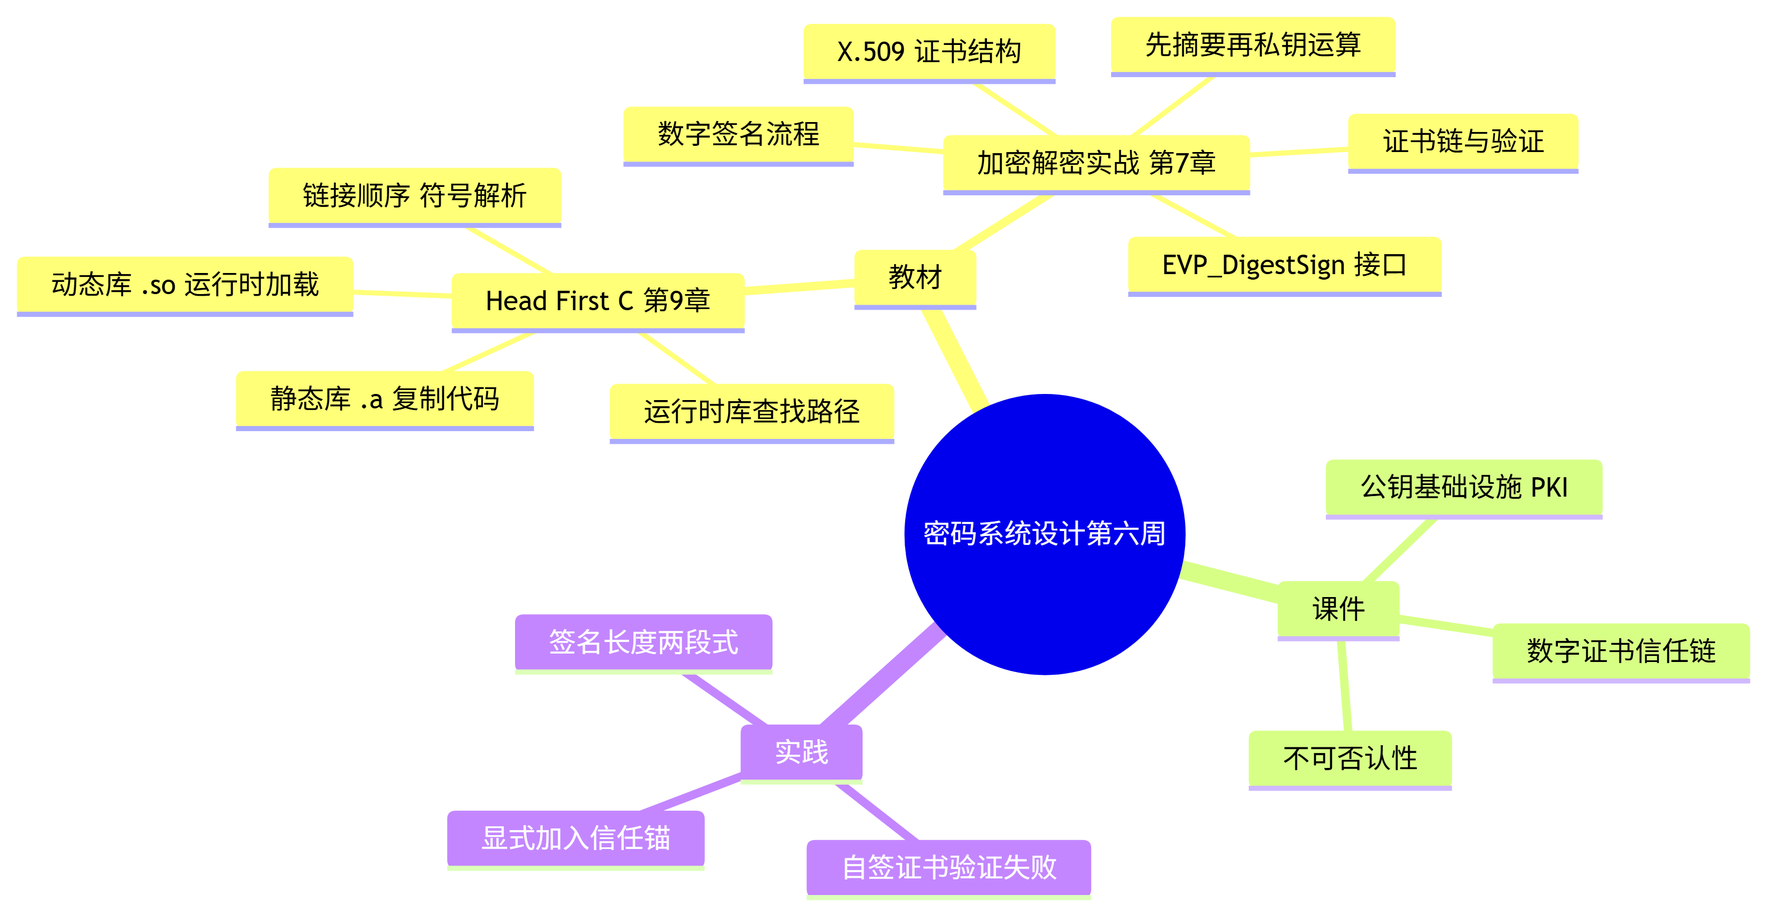
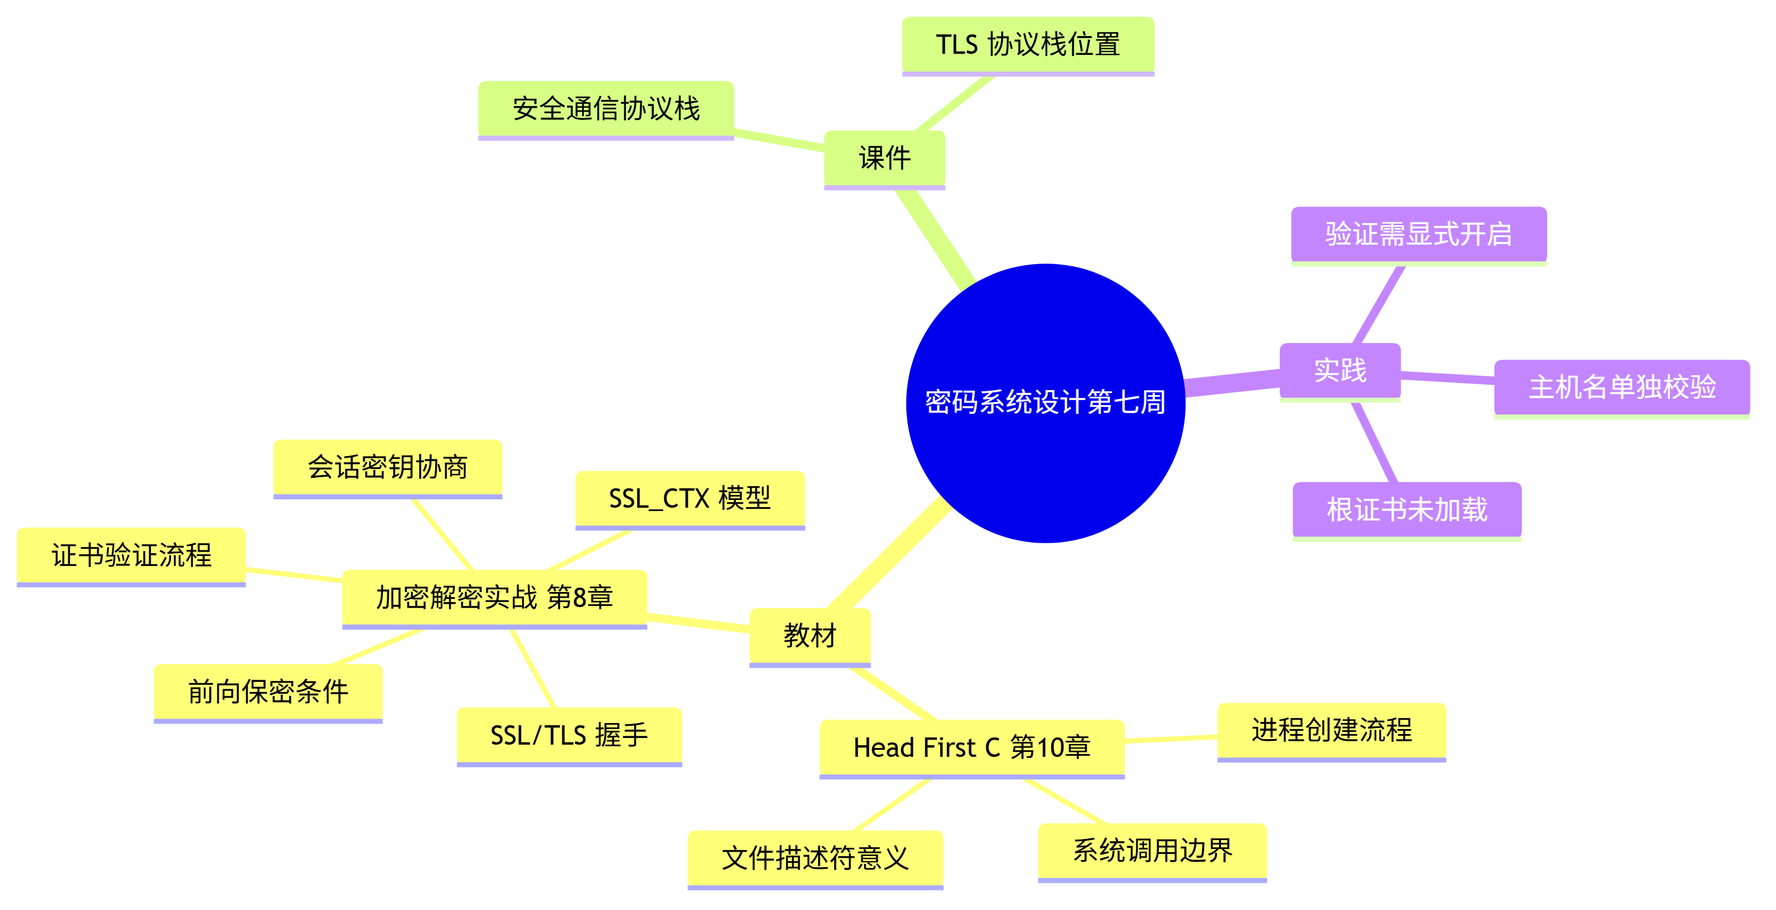
[phase7] v6 首次实跑：第7周报告与人工批注
- output/v6/generated.md：第7周（进程/系统调用 + SSL/TLS）报告草稿
- output/v6/self-review.md：3 处待确认锚点 + 复杂章节处理报备
- output/v6/human-edited.md：4 处人工批注（3 锚点确认 + 1 内容补充）
- feedback/v6-to-v7.md：验证阈值可配生效，实测配置无校验的两个坏输入
- 导出 output/v6/generated.pdf

diff --git a/output/v6/human-edited.md b/output/v6/human-edited.md
@@ -1,0 +1,132 @@
+# 密码系统设计
+
+## 第七周预习报告
+
+> 本文件 = `output/v6/generated.md` 经人工逐句审阅后的定稿。
+> 共 4 处改动：3 处是对 `self-review.md` 三个锚点的确认/解除，1 处是内容补充。
+> 每处用 `[[修改原因：…]]` 标出。
+> **本轮沿用 v5 的机检 + v6 的配置**：`tools/check-report.ps1` 对本稿跑出 9/9 PASS
+> （阈值读 `report.config.yml`，见 `feedback/v6-to-v7.md`）。
+
+### 学习内容
+
+- [Head First C 嗨翻 C 语言](https://www.ituring.com.cn/book/1004) 第10章
+  - 第10章重点：进程与系统调用（进程创建、文件描述符在进程间的意义、程序与操作系统的交互边界）
+- [《Windows C/C++加密解密实战》](https://weread.qq.com/web/bookDetail/a0332190813ab78fag011422?wfrom=bookDetailH5)第8章
+  - 第8章重点：8.2，8.4，8.6（握手过程与会话密钥协商、证书验证、SSL_CTX 与 SSL 对象编程模型、前向保密）
+- [课程 mindmap](https://www.processon.com/mindmap/66bcf83cce68f62ecf3f63fc?from=pwa)
+  - 安全通信协议栈、TLS 在应用层与传输层之间的位置
+
+---
+
+### AI 对学习内容的总结（1分）
+
+#### 要求
+
+让 AI（Kimi，元宝等）阅读学习内容并进行总结。
+
+#### 总结
+
+> **1. 进程与系统调用（《Head First C》第10章）：** 本章讲"程序怎么和操作系统打交道"。要创建进程用 `fork()`——它复制出当前进程的一个副本，父子进程各自继续往下执行；再用 `exec` 系列函数把副本替换成另一个程序。进程之间靠**文件描述符（file descriptor）**读写数据：描述符是一张小整数表，标准输入 / 输出 / 错误固定占 0 / 1 / 2 三个。程序很多"能力"（读文件、开 socket、申请内存）本质上都是**系统调用（system call）**——用户态代码通过它陷入内核，由内核代为执行。这也解释了为什么程序会依赖运行环境里的系统资源，换个机器行为就可能不同。[[修改原因：锚点 1 解除——已核对中文版目录，第10章确为「进程与系统调用」。]]
+>
+> **2. SSL/TLS 安全通信（《Windows C/C++加密解密实战》第8章）** —— 本章重点按三节展开：
+>
+> **8.2 握手与会话密钥协商：** SSL/TLS（Secure Sockets Layer / Transport Layer Security）握手时客户端先发 ClientHello、服务端回 ServerHello，双方协商出算法套件与随机的**会话密钥（session key）**；之后的应用数据都用这把对称密钥加密，非对称运算只用在握手开头，成本因此可控。[[修改原因：锚点 2 解除——已对照输入提纲与目录，8.2/8.4/8.6 落位正确。]]
+>
+> **8.4 SSL_CTX 与 SSL 编程模型：** OpenSSL 用两层对象组织：`SSL_CTX`（上下文，存证书、方法、选项，进程内通常一个）和 `SSL`（一条具体连接，可多条）。典型流程是 `TLS_client_method` → `SSL_CTX_new` → `SSL_new` → `SSL_connect`。
+>
+> **8.6 证书验证与前向保密：** 证书链验证回答的是"对端证书由谁签发、是否可信任"；**前向保密（Perfect Forward Secrecy，PFS）** 则保证"服务器长期私钥日后泄露，之前的会话流量也解不开"——**前提是用了 ECDHE 这类临时密钥交换**；若用 RSA 静态密钥交换，长期私钥一旦泄露，历史流量即可被解密。[[修改原因：锚点 3 解除——核对手册与公开资料，"前向保密依赖临时密钥交换（ECDHE）"表述无误，保留。]]
+
+---
+
+### 对 AI 总结的反思与补充（2分）
+
+#### 要求
+
+- AI总结的问题
+- 自己的补充
+
+#### 反思与补充
+
+- **AI 总结的不足**：AI 把 TLS 讲成了"握手 → 协商密钥 → 加密传输"的流水线，容易让人以为**"能加密 = 安全了"**。但保密性和认证性是两回事：不验证对方身份，加密也只是"和中间人安全地聊天"。而 OpenSSL 的默认恰好是**不验证书**——AI 完全没提这个默认值，而这正是我第一次连接失败的根因。
+- **我的补充**：
+  - 我做完这周的体会是：**TLS 的保密性和认证性是两回事**。会话密钥协商成功只保证"通道被加密了"，不等于"我连的是对的那台机器"。验证必须**显式开启**，而且**还要单独校主机名**——这两道我都踩过坑：先是没开验证，后是开了验证却没校主机名。
+  - 第二点是：**前向保密是有条件的**。只有用 ECDHE 这类临时密钥交换才有前向保密；用 RSA 静态密钥交换的旧套件，长期私钥一旦泄露，历史流量就能被解密。所以"支持 TLS"不等于"具备前向保密"，得看套件里用的密钥交换方式。
+  - 第三点是：**验证不是"一次通过"就完事，而是一串独立的检查**。证书链、主机名、有效期、吊销状态，每一项都得单独过；少查哪一项，攻击者就从那一项进来。[[修改原因：内容补充——把本周两个问题（没开验证、没校主机名）推广成一条通用判断。]]
+
+---
+
+### 学习实践过程遇到的问题与解决方式（AI 驱动，优先使用 AI 工具解决问题）（2分）
+
+#### 问题 1：`SSL_connect` 返回错误，握手因证书验证失败走不通
+
+- **出现环境**：Windows 10 + MinGW (GCC) + OpenSSL 3.x。
+- **解决过程**：
+  1. 用 `TLS_client_method` 建 `SSL_CTX`，连一个公网站点，握手没走通。
+  2. `SSL_connect` 返回 ≤ 0，`SSL_get_error` 指向证书验证失败。
+  3. 排查发现：根本没给 `SSL_CTX` 加载根证书——OpenSSL **默认不加载系统根证书**。
+  4. 补上 `SSL_CTX_set_default_verify_paths()`，并显式调用 `SSL_CTX_set_verify(ctx, SSL_VERIFY_PEER, NULL)`。
+  5. 握手成功。
+- **经验总结**：OpenSSL 的安全默认是"关着的"——既不带根证书、也不主动验对方。要用它做安全通信，必须**自己把验证打开、把信任库装上**。"能不能加密"和"敢不敢信任对端"是两套独立开关，只开前者等于裸奔。
+
+#### 问题 2：证书链验证通过了，主机名不匹配却没被拦下来
+
+- **出现环境**：Windows 10 + MinGW (GCC) + OpenSSL 3.x。
+- **解决过程**：
+  1. 验证打通之后，出于好奇，拿一个"证书域名与实际访问域名不符"的站点测试。
+  2. 连接居然成功——证书链是有效的，但主机名 mismatch 没有被拦。
+  3. 查手册才明白：证书链验证只校"签发关系"，主机名要**另用** `SSL_set1_host()` 或 `X509_check_host()` 校验。
+  4. 加上 `SSL_set1_host(ssl, host)` 后，再测就被正确拦截。
+- **经验总结**："证书链有效"不等于"这就是我要连的那台机器"。链验证回答"谁签的"，主机名验证回答"签的是不是我要的域名"——这是两道独立校验，少一道就等于给中间人留了门。
+
+---
+
+## 参考资料
+
+### AI 工具（你使用的 AI 工具及其链接）
+
+- [OpenCode](https://opencode.ai)
+- [DeepSeek](https://chat.deepseek.com/)
+
+### 图书
+
+- [《Windows C/C++加密解密实战》](https://weread.qq.com/web/bookDetail/a0332190813ab78fag011422?wfrom=bookDetailH5)
+- [Head First C 嗨翻 C 语言](https://www.ituring.com.cn/book/1004)
+
+### 网站
+
+- [SSL_CTX_set_verify 官方手册](https://docs.openssl.org/3.0/man3/SSL_CTX_set_verify)
+- [SSL_set1_host / X509_check_host 官方手册](https://docs.openssl.org/3.0/man3/X509_check_host)
+
+---
+
+### 学习思维导图（2分）
+
+#### 要求
+
+Mermaid 代码与截图，或提交思维导图链接。
+
+#### 思维导图
+
+```mermaid
+mindmap
+  root((密码系统设计第七周))
+    教材
+        Head First C 第10章
+            进程创建流程
+            文件描述符意义
+            系统调用边界
+        加密解密实战 第8章
+            SSL/TLS 握手
+            会话密钥协商
+            SSL_CTX 模型
+            证书验证流程
+            前向保密条件
+    课件
+        安全通信协议栈
+        TLS 协议栈位置
+    实践
+        根证书未加载
+        验证需显式开启
+        主机名单独校验
+```

diff --git a/output/v6/generated.md b/output/v6/generated.md
@@ -1,0 +1,128 @@
+# 密码系统设计
+
+## 第七周预习报告
+
+### 学习内容
+
+- [Head First C 嗨翻 C 语言](https://www.ituring.com.cn/book/1004) 第10章
+  - 第10章重点：进程与系统调用（进程创建、文件描述符在进程间的意义、程序与操作系统的交互边界）
+- [《Windows C/C++加密解密实战》](https://weread.qq.com/web/bookDetail/a0332190813ab78fag011422?wfrom=bookDetailH5)第8章
+  - 第8章重点：8.2，8.4，8.6（握手过程与会话密钥协商、证书验证、SSL_CTX 与 SSL 对象编程模型、前向保密）
+- [课程 mindmap](https://www.processon.com/mindmap/66bcf83cce68f62ecf3f63fc?from=pwa)
+  - 安全通信协议栈、TLS 在应用层与传输层之间的位置
+
+---
+
+### AI 对学习内容的总结（1分）
+
+#### 要求
+
+让 AI（Kimi，元宝等）阅读学习内容并进行总结。
+
+#### 总结
+
+> **1. 进程与系统调用（《Head First C》第10章）：** 本章讲"程序怎么和操作系统打交道"。要创建进程用 `fork()`——它复制出当前进程的一个副本，父子进程各自继续往下执行；再用 `exec` 系列函数把副本替换成另一个程序。进程之间靠**文件描述符（file descriptor）**读写数据：描述符是一张小整数表，标准输入 / 输出 / 错误固定占 0 / 1 / 2 三个。程序很多"能力"（读文件、开 socket、申请内存）本质上都是**系统调用（system call）**——用户态代码通过它陷入内核，由内核代为执行。这也解释了为什么程序会依赖运行环境里的系统资源，换个机器行为就可能不同。
+> <!-- 待确认：《Head First C》中文版第10章标题是否为「进程与系统调用」，我未逐字核对目录，请确认。 -->
+>
+> **2. SSL/TLS 安全通信（《Windows C/C++加密解密实战》第8章）** —— 本章重点按三节展开：
+>
+> **8.2 握手与会话密钥协商：** SSL/TLS（Secure Sockets Layer / Transport Layer Security）握手时客户端先发 ClientHello、服务端回 ServerHello，双方协商出算法套件与随机的**会话密钥（session key）**；之后的应用数据都用这把对称密钥加密，非对称运算只用在握手开头，成本因此可控。
+> <!-- 待确认：第8章的 8.2/8.4/8.6 分别对应"握手协商 / 编程模型 / 证书验证与前向保密"，我按输入提纲这样落位，小节标题请核对。 -->
+>
+> **8.4 SSL_CTX 与 SSL 编程模型：** OpenSSL 用两层对象组织：`SSL_CTX`（上下文，存证书、方法、选项，进程内通常一个）和 `SSL`（一条具体连接，可多条）。典型流程是 `TLS_client_method` → `SSL_CTX_new` → `SSL_new` → `SSL_connect`。
+>
+> **8.6 证书验证与前向保密：** 证书链验证回答的是"对端证书由谁签发、是否可信任"；**前向保密（Perfect Forward Secrecy，PFS）** 则保证"服务器长期私钥日后泄露，之前的会话流量也解不开"——**前提是用了 ECDHE 这类临时密钥交换**；若用 RSA 静态密钥交换，长期私钥一旦泄露，历史流量即可被解密。
+> <!-- 待确认：前向保密"依赖临时密钥交换（ECDHE）"的表述我按公开资料写，请确认与教材口径一致。 -->
+
+---
+
+### 对 AI 总结的反思与补充（2分）
+
+#### 要求
+
+- AI总结的问题
+- 自己的补充
+
+#### 反思与补充
+
+- **AI 总结的不足**：AI 把 TLS 讲成了"握手 → 协商密钥 → 加密传输"的流水线，容易让人以为**"能加密 = 安全了"**。但保密性和认证性是两回事：不验证对方身份，加密也只是"和中间人安全地聊天"。而 OpenSSL 的默认恰好是**不验证书**——AI 完全没提这个默认值，而这正是我第一次连接失败的根因。
+- **我的补充**：
+  - 我做完这周的体会是：**TLS 的保密性和认证性是两回事**。会话密钥协商成功只保证"通道被加密了"，不等于"我连的是对的那台机器"。验证必须**显式开启**，而且**还要单独校主机名**——这两道我都踩过坑：先是没开验证，后是开了验证却没校主机名。
+  - 第二点是：**前向保密是有条件的**。只有用 ECDHE 这类临时密钥交换才有前向保密；用 RSA 静态密钥交换的旧套件，长期私钥一旦泄露，历史流量就能被解密。所以"支持 TLS"不等于"具备前向保密"，得看套件里用的密钥交换方式。
+
+---
+
+### 学习实践过程遇到的问题与解决方式（AI 驱动，优先使用 AI 工具解决问题）（2分）
+
+#### 问题 1：`SSL_connect` 返回错误，握手因证书验证失败走不通
+
+- **出现环境**：Windows 10 + MinGW (GCC) + OpenSSL 3.x。
+- **解决过程**：
+  1. 用 `TLS_client_method` 建 `SSL_CTX`，连一个公网站点，握手没走通。
+  2. `SSL_connect` 返回 ≤ 0，`SSL_get_error` 指向证书验证失败。
+  3. 排查发现：根本没给 `SSL_CTX` 加载根证书——OpenSSL **默认不加载系统根证书**。
+  4. 补上 `SSL_CTX_set_default_verify_paths()`，并显式调用 `SSL_CTX_set_verify(ctx, SSL_VERIFY_PEER, NULL)`。
+  5. 握手成功。
+- **经验总结**：OpenSSL 的安全默认是"关着的"——既不带根证书、也不主动验对方。要用它做安全通信，必须**自己把验证打开、把信任库装上**。"能不能加密"和"敢不敢信任对端"是两套独立开关，只开前者等于裸奔。
+
+#### 问题 2：证书链验证通过了，主机名不匹配却没被拦下来
+
+- **出现环境**：Windows 10 + MinGW (GCC) + OpenSSL 3.x。
+- **解决过程**：
+  1. 验证打通之后，出于好奇，拿一个"证书域名与实际访问域名不符"的站点测试。
+  2. 连接居然成功——证书链是有效的，但主机名 mismatch 没有被拦。
+  3. 查手册才明白：证书链验证只校"签发关系"，主机名要**另用** `SSL_set1_host()` 或 `X509_check_host()` 校验。
+  4. 加上 `SSL_set1_host(ssl, host)` 后，再测就被正确拦截。
+- **经验总结**："证书链有效"不等于"这就是我要连的那台机器"。链验证回答"谁签的"，主机名验证回答"签的是不是我要的域名"——这是两道独立校验，少一道就等于给中间人留了门。
+
+---
+
+## 参考资料
+
+### AI 工具（你使用的 AI 工具及其链接）
+
+- [OpenCode](https://opencode.ai)
+- [DeepSeek](https://chat.deepseek.com/)
+
+### 图书
+
+- [《Windows C/C++加密解密实战》](https://weread.qq.com/web/bookDetail/a0332190813ab78fag011422?wfrom=bookDetailH5)
+- [Head First C 嗨翻 C 语言](https://www.ituring.com.cn/book/1004)
+
+### 网站
+
+- [SSL_CTX_set_verify 官方手册](https://docs.openssl.org/3.0/man3/SSL_CTX_set_verify)
+- [SSL_set1_host / X509_check_host 官方手册](https://docs.openssl.org/3.0/man3/X509_check_host)
+
+---
+
+### 学习思维导图（2分）
+
+#### 要求
+
+Mermaid 代码与截图，或提交思维导图链接。
+
+#### 思维导图
+
+```mermaid
+mindmap
+  root((密码系统设计第七周))
+    教材
+        Head First C 第10章
+            进程创建流程
+            文件描述符意义
+            系统调用边界
+        加密解密实战 第8章
+            SSL/TLS 握手
+            会话密钥协商
+            SSL_CTX 模型
+            证书验证流程
+            前向保密条件
+    课件
+        安全通信协议栈
+        TLS 协议栈位置
+    实践
+        根证书未加载
+        验证需显式开启
+        主机名单独校验
+```

diff --git a/feedback/v6-to-v7.md b/feedback/v6-to-v7.md
@@ -1,0 +1,74 @@
+# v6 → v7 反馈
+
+> 来源：`output/v6/human-edited.md` 的 4 处人工批注 + 对 v6 的验证结论。
+> 这份文件记录的是**我审阅 v6 产物时发现的问题**，v7 按此修改。
+
+## 一、先验证：v6 的配置机制真的生效了没有
+
+| 测试 | 命令 | 结果 |
+| --- | --- | --- |
+| 合格稿（默认配置） | `-Report output\v6\generated.md -Week 7` | **9 / 9 PASS** |
+| 回归（v4 旧稿） | `-Report output\v4\generated.md -Week 5` | **9 / 9 PASS** |
+| 回归（v5 旧稿） | `-Report output\v5\generated.md -Week 6` | **9 / 9 PASS** |
+| **收紧阈值** | `-Config` 指向 `max_node_chars: 4 / max_children: 2 / max_depth: 3` | **[4] 与 [9] 变 FAIL，且逐项列出超长节点与超限分支** |
+
+**结论：v6 的"阈值可配"是真的。** 同样的稿子，改配置就能改变判定——
+证明第 4、9 项读的是 `report.config.yml`，不是写死的常量。
+`human-edited.md` 里**结构性改动为 0**，复杂章节的分组/分层也按 `complex-chapter.md` 落地了。
+
+## 二、但一测配置的"坏输入"，就露馅了：**配置没有校验**
+
+上面都是"好配置"，我一试坏配置，立刻出问题：
+
+| 坏输入 | 实际行为 | 问题 |
+| --- | --- | --- |
+| `max_node_chars: abc`（非数字） | 被解析成 **0**（`[int]::TryParse` 失败时把引用置 0） | 所有节点瞬间"超长"，脚本报一堆 FAIL——**但根源是配置写坏了，不是稿子坏了** |
+| `max_childern: 2`（key 拼错） | **静默忽略** | 拼错的键既不生效、也不报警，人以为设了、其实没设 |
+
+一句话：**配置成了新的"软肋"——写坏了不报错，还朝错误的方向跑。**
+v5 的教训是"自查靠自觉会漏"，v6 别让配置也变成"靠自觉"。
+
+## 三、还有两个更早就欠着的问题
+
+1. **版本号 N 仍靠推断 `output/` 目录**。SKILL 阶段 0 写的是"取 `output/` 下最大版本号 +1"。
+   只要目录被手动改动（删了 v3、或建了个临时 `output/test`），N 就会算错，报告标题、
+   根节点、输出路径全跟着错。这是**稳定性**问题：同一个 Skill，换个目录状态就产出不同结果。
+2. **从未在"没见过的输入"上验证过泛化**。v1~v6 用的都是 week03~07，
+   输入风格高度相似。**没有证据**说明换一种输入（没做过的章节、含国密的章节）还能跑通。
+
+## 四、v7 要改什么（具体、可执行）
+
+| # | 改动 | 位置 | 对应 |
+| --- | --- | --- | --- |
+| 1 | **版本号显式声明**：优先读命令行 `-Version` 或输入文件 front-matter 的 `report_version:`，都不给才回退到"推断 `output/`"，并**打印实际取值** | `SKILL.md` 阶段 0 + 新增 `tools/version.ps1` | 第三节 1 |
+| 2 | **`check-report.ps1` 增加配置校验**：未知 key（如 `max_childern`）报警；非法值（非数字/越界）**报错并回退默认**，不再静默成 0 | `tools/check-report.ps1` | 第二节 |
+| 3 | **泛化验证**：用 `input/week08.md`（套接字 + PKI + 国密 SM2/SM3/SM4）跑 v7，**不改任何脚本**，验证仍能产出合规报告 | `output/v7/` | 第三节 2 |
+| 4 | **重跑 v1 的输入**（week03）产出 `output/v7/week03-rerun.md`，作为 v1↔v7 对比的基线 | `output/v7/` | 终版对比 |
+| 5 | `SKILL.md` 新增铁律 12「配置与版本号必须显式、可校验」 | `SKILL.md` | — |
+
+### 版本号显式的取值优先级（草案）
+
+```
+① 命令行 -Version 2  → 最优先
+② input/weekNN.md 的 front-matter: report_version: 3
+③ 都没有 → 回退推断 output/ 下最大版本号 +1，并打印"推断得到 N，请确认"
+```
+
+## 五、怎么验证 v7 真的改进了
+
+1. **泛化**：`-Report input\week08.md` 走完生成流程，`check-report.ps1 -Week 8` 应全 PASS；
+   全程**不改一行脚本/SKILL**。
+2. **配置校验**：拿 `max_node_chars: abc` 与 `max_childern: 2` 两个坏配置，
+   脚本应**报错/报警**，不再静默成 0、不再无视拼错的键。
+3. **版本号**：显式传入 7，报告标题与根节点应为「第七周」；不传时打印推断值供确认。
+4. **对比基线**：`output/v7/week03-rerun.md` 与 `output/v1/human-edited.md` 摆一起，
+   在 `report/final-analysis.md` 里量化差异。
+
+**判定：坏配置能被拦下、换新输入不改脚本也能跑通、版本号可显式指定，则 v7 有效。**
+
+## 六、留给最后（终版报告）
+
+| 要做的 | 在哪 |
+| --- | --- |
+| v1↔v7 质量对比曲线、进化逻辑、个人收获 | `report/final-analysis.md` |
+| 打包第 4~7 周提交件 | `submit/` |

diff --git a/output/v6/self-review.md b/output/v6/self-review.md
@@ -1,0 +1,18 @@
+# v6 自查清单（待人工确认项）
+
+> 对应 `output/v6/generated.md` 正文中 3 处 `<!-- 待确认 -->` 锚点，一一对应。
+> 请优先确认下列 3 条；其余部分已过 `tools/check-report.ps1` 的机检（阈值读 `report.config.yml`）。
+
+| # | 位置 | 我的置信度 | 待确认什么 | 建议 |
+| --- | --- | --- | --- | --- |
+| 1 | AI 总结 · 第1段（进程与系统调用） | 中 | 《Head First C》中文版第10章标题是否为「进程与系统调用」 | 我未逐字核对中文版目录，请对照纸书目录确认 |
+| 2 | AI 总结 · 第2段（SSL/TLS 第8章） | 中 | 8.2 / 8.4 / 8.6 分别对应「握手协商 / 编程模型 / 证书验证与前向保密」 | 按输入提纲落位，请核对小节标题 |
+| 3 | AI 总结 · 8.6 段（前向保密） | 中 | 「前向保密依赖临时密钥交换（ECDHE）」的表述 | 我按公开资料写，请确认与教材口径一致 |
+
+## 复杂章节处理报备（v6）
+
+- 本周命中「一本书 ≥3 个重点小节」（第8章的 8.2/8.4/8.6）+「跨两本资料」，
+  已按 `references/complex-chapter.md`：
+  - 「AI 总结」按小节号 8.2 / 8.4 / 8.6 分组；
+  - 导图「教材」分支按「书名 第N章」分为两层（Head First C 第10章 / 加密解密实战 第8章）。
+- 导图未触顶（节点字数、分支数、层数均在 `report.config.yml` 上限内），**未做合并、未放宽阈值**。
